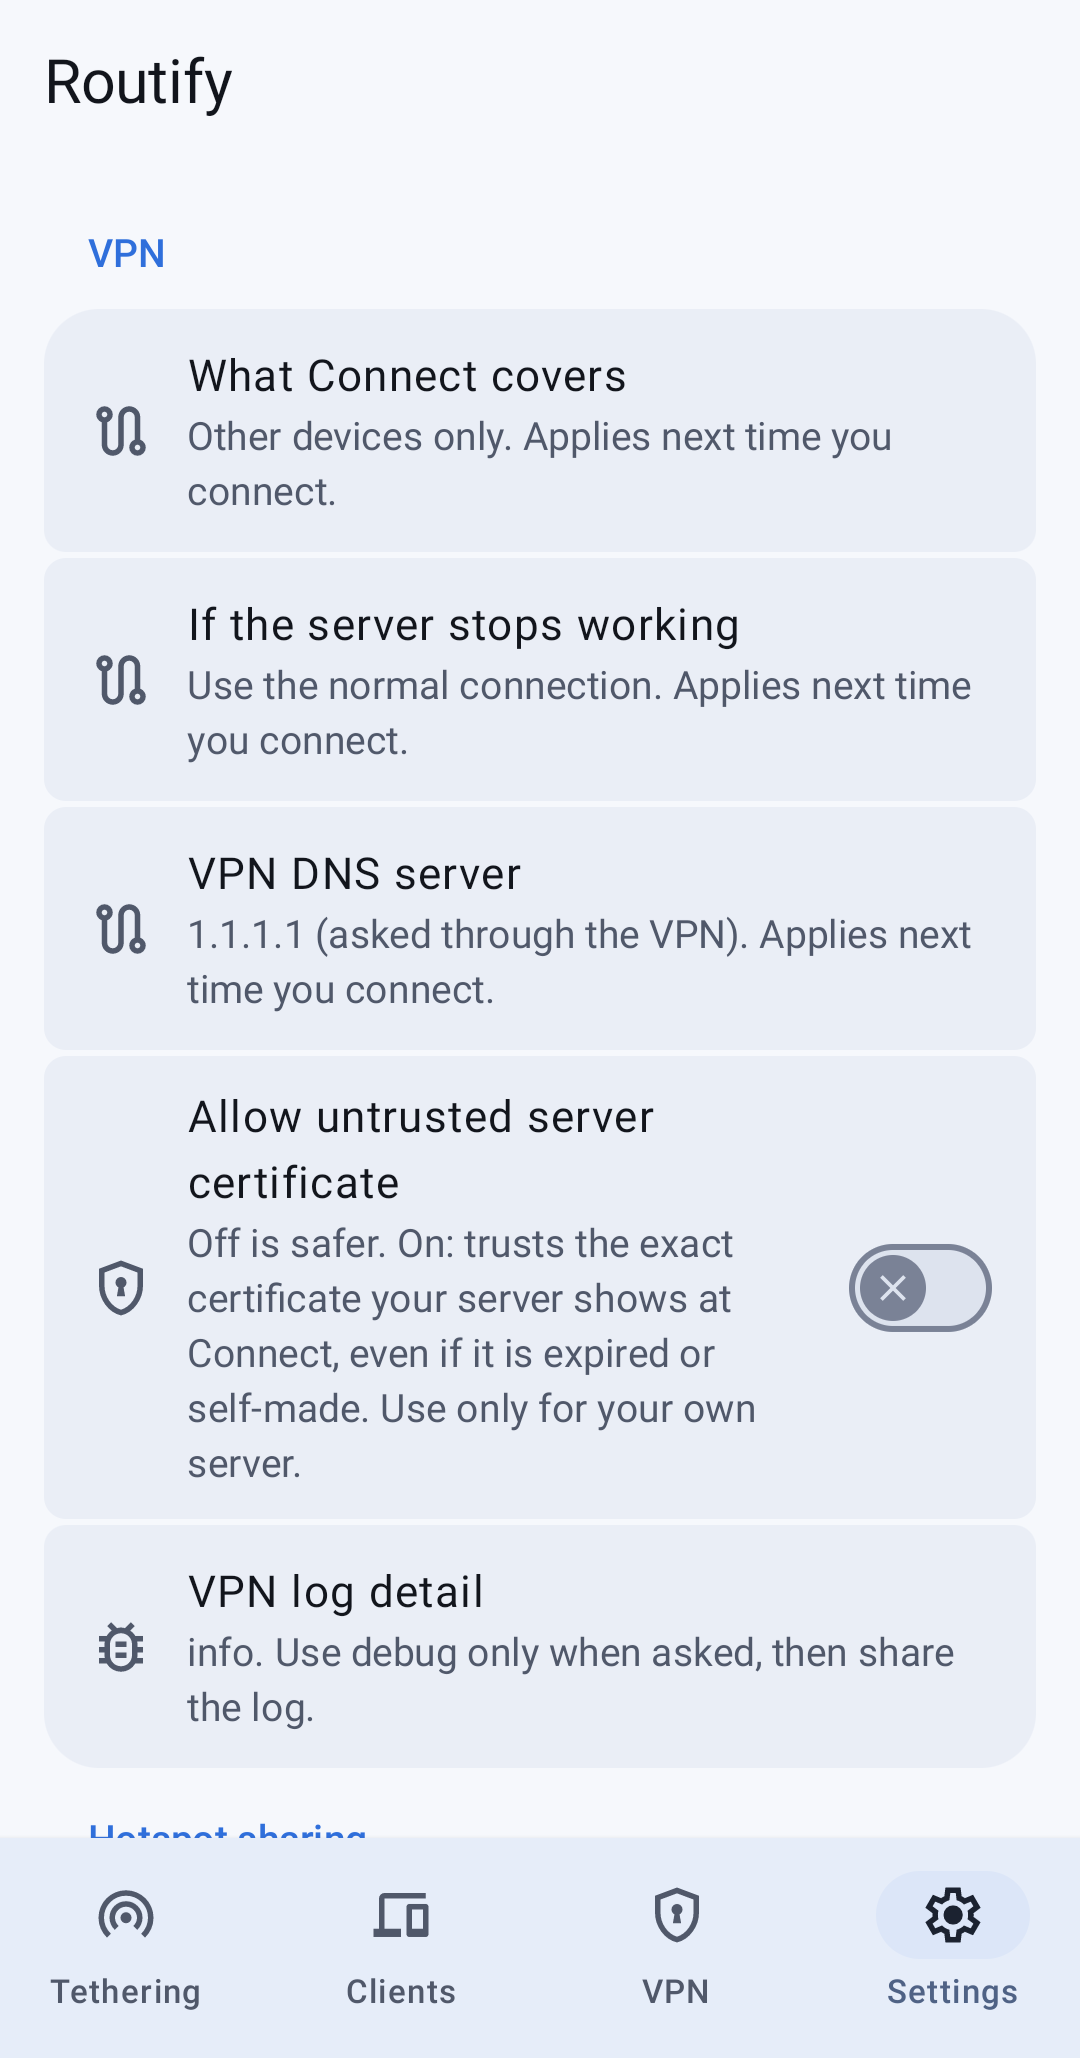
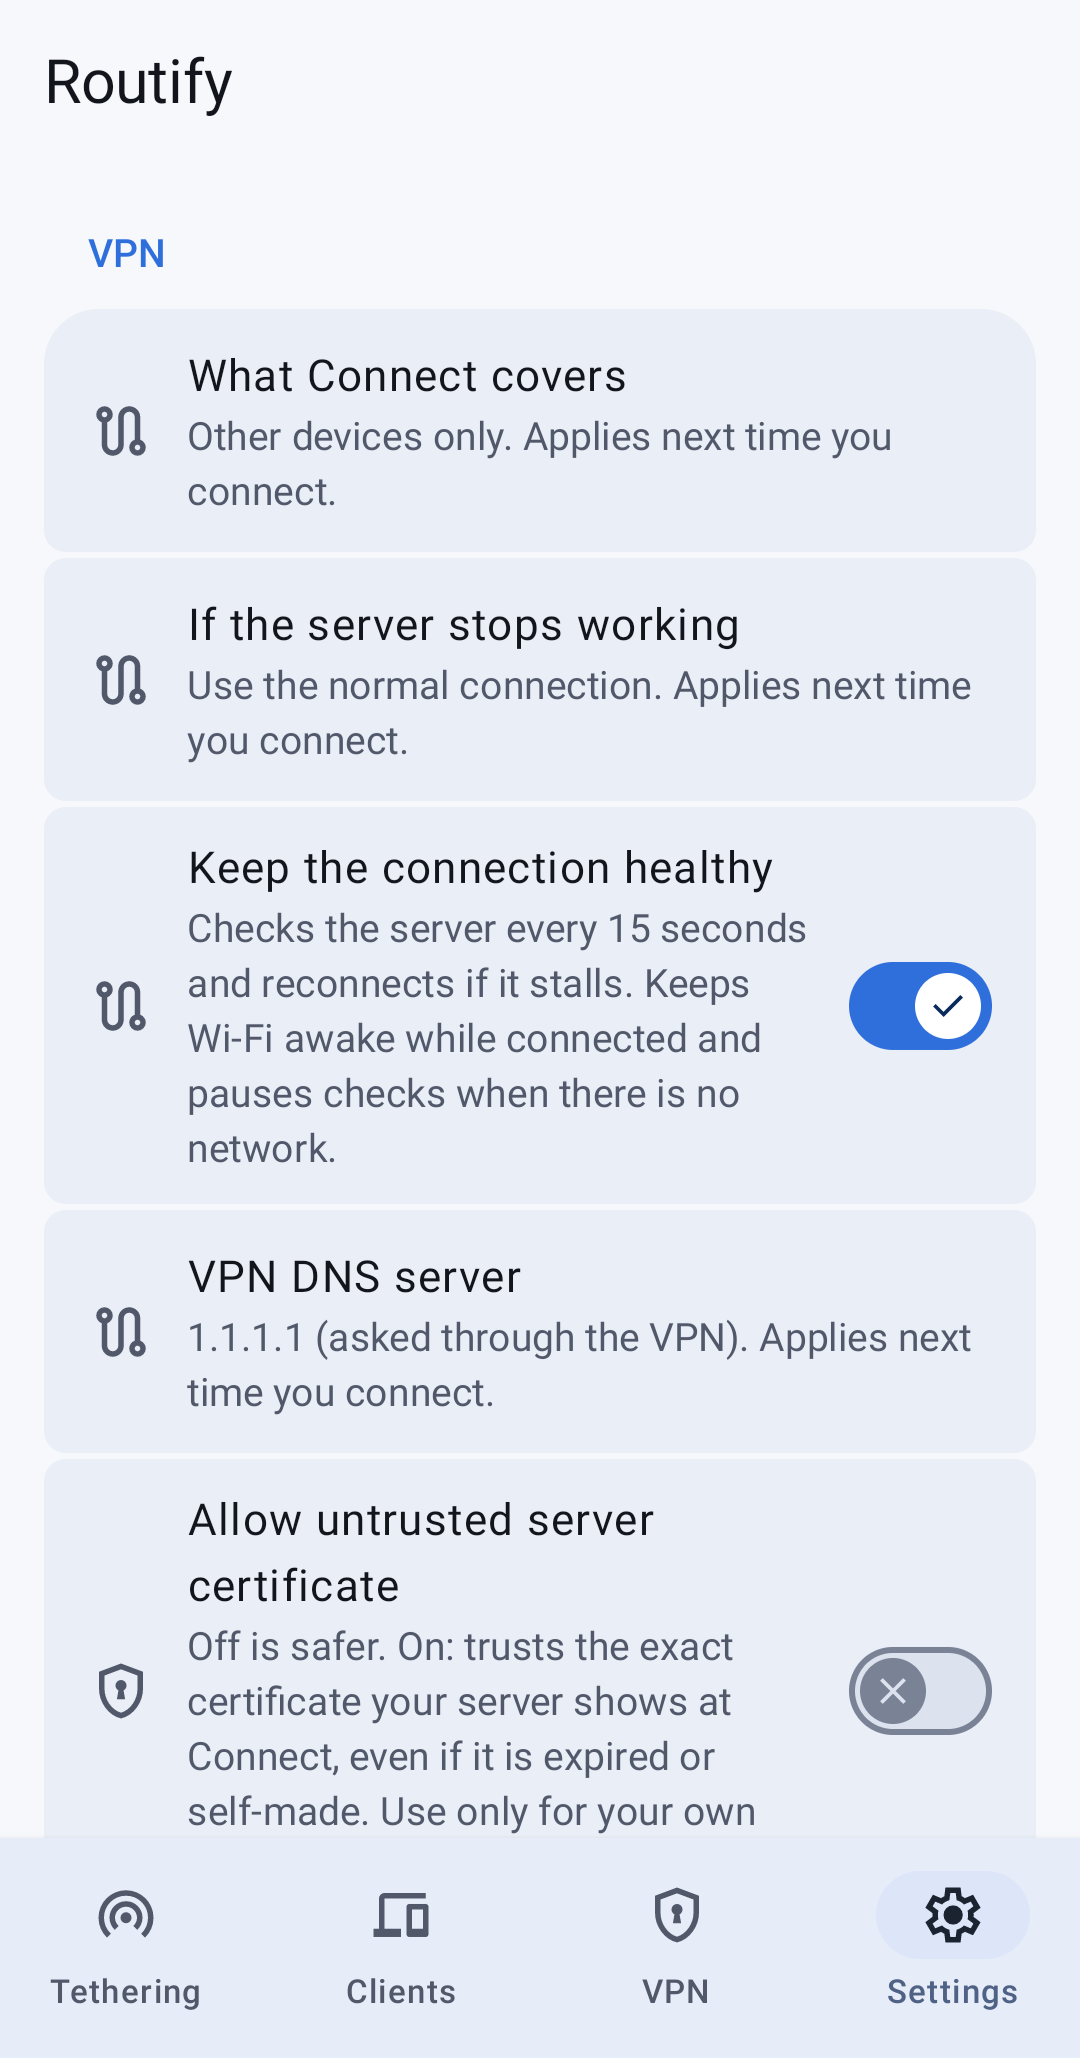
Add Check for updates (v0.3.39)

diff --git a/mobile/src/main/java/be/mygod/vpnhotspot/xray/XrayController.kt b/mobile/src/main/java/be/mygod/vpnhotspot/xray/XrayController.kt
@@ -76,6 +76,39 @@ object XrayController {
         get() = prefs.getBoolean("block_on_fail", false)
         set(v) = prefs.edit().putBoolean("block_on_fail", v).apply()
 
+    /** On (default): the connection is checked every 15 s and restarted when it stalls; Wi-Fi and CPU stay awake while connected. */
+    var keepHealthy: Boolean
+        get() = prefs.getBoolean("keep_healthy", true)
+        set(v) = prefs.edit().putBoolean("keep_healthy", v).apply()
+
+    @Volatile private var lastServer: XrayServer? = null
+    private var wifiLock: android.net.wifi.WifiManager.WifiLock? = null
+    private var cpuLock: android.os.PowerManager.WakeLock? = null
+
+    @Suppress("DEPRECATION")
+    private fun holdLocks() {
+        try {
+            if (wifiLock == null) wifiLock = app.getSystemService(android.net.wifi.WifiManager::class.java)
+                .createWifiLock(android.net.wifi.WifiManager.WIFI_MODE_FULL_HIGH_PERF, "routify:conn").apply { setReferenceCounted(false) }
+            if (cpuLock == null) cpuLock = app.getSystemService(android.os.PowerManager::class.java)
+                .newWakeLock(android.os.PowerManager.PARTIAL_WAKE_LOCK, "routify:conn").apply { setReferenceCounted(false) }
+            wifiLock?.acquire(); cpuLock?.acquire()
+            appendLog("Health: Wi-Fi and CPU locks held while connected")
+        } catch (e: Throwable) { appendLog("Health: locks unavailable (${e.javaClass.simpleName})") }
+    }
+
+    private fun dropLocks() {
+        try { if (wifiLock?.isHeld == true) wifiLock?.release() } catch (_: Throwable) { }
+        try { if (cpuLock?.isHeld == true) cpuLock?.release() } catch (_: Throwable) { }
+    }
+
+    /** True when Android reports any network with internet (Wi-Fi or mobile data). */
+    private fun networkUp(): Boolean = try {
+        val cm = app.getSystemService(android.net.ConnectivityManager::class.java)
+        val c = cm.getNetworkCapabilities(cm.activeNetwork)
+        c?.hasCapability(android.net.NetworkCapabilities.NET_CAPABILITY_INTERNET) == true
+    } catch (_: Throwable) { true }
+
     @Volatile private var waitReason: String = ""
     @Volatile private var lastResolved: XrayServer? = null
 
@@ -371,6 +404,7 @@ object XrayController {
                 proxyProc = pb.start()
                 Thread.sleep(1200)
             }
+            lastServer = server
             val p = proxyProc
             if (p == null || !p.isAlive) {
                 val log = File(dir, "xray.log").takeIf { it.exists() }?.readText()?.takeLast(300) ?: ""
@@ -428,9 +462,13 @@ object XrayController {
         watching = true
         lastProblem = null
         Thread {
+            if (keepHealthy) holdLocks()
             try {
                 var tick = 0
                 var fails = 0
+                var healthFails = 0
+                var paused = false
+                val restartTimes = ArrayDeque<Long>()
                 fun restarts() = try { File(dir, "restarts").takeIf { it.exists() }?.readLines()?.size ?: 0 } catch (_: Throwable) { 0 }
                 var seenRestarts = restarts()
                 while (_running.value) {
@@ -461,6 +499,32 @@ object XrayController {
                             } else if (bad != waitReason) { waitReason = bad; refresh() }
                         }
                     }
+                    if (keepHealthy && tick % 5 == 0 && try { File(dir, "state").readText().trim() } catch (_: Throwable) { "" } == "proxy") {
+                        if (!networkUp()) {
+                            if (!paused) { paused = true; appendLog("Health: no network, checks paused until it is back") }
+                            healthFails = 0
+                        } else {
+                            if (paused) { paused = false; appendLog("Health: network is back, checking again") }
+                            val dead = proxyProc?.isAlive == false
+                            val bad = if (dead) "the engine stopped" else PhoneVpn.serverCheck(SOCKS_PORT)
+                            healthFails = if (bad.isEmpty()) 0 else healthFails + 1
+                            if (healthFails >= (if (dead) 1 else 3)) {
+                                healthFails = 0
+                                val now = android.os.SystemClock.elapsedRealtime()
+                                while (restartTimes.isNotEmpty() && now - restartTimes.first() > 600_000) restartTimes.removeFirst()
+                                val sv = lastServer
+                                if (sv == null || restartTimes.size >= 5) {
+                                    appendLog("Health: still stalled ($bad); stopped retrying after 5 restarts in 10 minutes")
+                                    _message.value = "Connected, but the server does not answer: $bad"
+                                } else {
+                                    restartTimes.addLast(now)
+                                    appendLog("Health: tunnel stalled ($bad), reconnecting (restart ${restartTimes.size})")
+                                    _message.value = "Reconnecting..."
+                                    kotlinx.coroutines.runBlocking { startProxy(sv) }
+                                }
+                            }
+                        }
+                    }
                     val log = try { File(dir, "xray.log").takeIf { it.exists() }?.readText()?.takeLast(6000) ?: "" } catch (_: Throwable) { "" }
                     val problem = diagnose(log)
                     if (problem != null && problem != lastProblem) {
@@ -469,7 +533,7 @@ object XrayController {
                         _message.value = "Connected, but " + problem
                     }
                 }
-            } catch (_: Throwable) { } finally { watching = false }
+            } catch (_: Throwable) { } finally { watching = false; dropLocks() }
         }.apply { isDaemon = true; name = "routify-xray-watch" }.start()
     }
 

diff --git a/mobile/src/main/java/be/mygod/vpnhotspot/RepeaterService.kt b/mobile/src/main/java/be/mygod/vpnhotspot/RepeaterService.kt
@@ -314,6 +314,13 @@ class RepeaterService : Service(), CoroutineScope {
             if (android.os.SystemClock.elapsedRealtime() - began > 60_000) restarts = 0
             restarts++
             if (restarts > 8) throw StartFailure("The Wi-Fi Direct group kept dropping. Turn the Repeater off and on again.")
+            var pausedLogged = false
+            while (app.getSystemService(android.net.wifi.WifiManager::class.java)?.isWifiEnabled == false) {
+                if (!pausedLogged) { pausedLogged = true; be.mygod.vpnhotspot.util.AppLog.add("repeater", "Wi-Fi is off, waiting for it before creating the group again") }
+                delay(2.seconds)
+                restarts = 0
+            }
+            if (pausedLogged) be.mygod.vpnhotspot.util.AppLog.add("repeater", "Wi-Fi is back")
             be.mygod.vpnhotspot.util.AppLog.add("repeater", "Group lost, creating it again (try $restarts)")
             delay((3 * restarts).coerceAtMost(30).seconds)
         }

diff --git a/mobile/src/main/java/be/mygod/vpnhotspot/ui/VpnSettings.kt b/mobile/src/main/java/be/mygod/vpnhotspot/ui/VpnSettings.kt
@@ -155,3 +155,15 @@ fun ErrorLogRow() {
     )
 }
 
+
+@Composable
+fun VpnHealthRow() {
+    var on by remember { mutableStateOf(XrayController.keepHealthy) }
+    PreferenceSwitchRow(
+        icon = R.drawable.ic_route,
+        title = "Keep the connection healthy",
+        summary = "Checks the server every 15 seconds and reconnects if it stalls. Keeps Wi-Fi awake while connected and pauses checks when there is no network.",
+        checked = on,
+        onCheckedChange = { XrayController.keepHealthy = it; on = it },
+    )
+}

diff --git a/mobile/src/main/java/be/mygod/vpnhotspot/ui/SettingsScreen.kt b/mobile/src/main/java/be/mygod/vpnhotspot/ui/SettingsScreen.kt
@@ -163,6 +163,7 @@ fun SettingsScreen(snackbarHostState: SnackbarHostState) {
             PreferenceGroup(title = "VPN") {
 row("routify_vpn_cover") { VpnCoverageRow() }
 row("routify_vpn_fail") { VpnFailRow() }
+        row("routify_vpn_health") { VpnHealthRow() }
 row("routify_vpn_dns") { VpnDnsRow() }
 row("routify_insecure") { InsecureRow() }
 row("routify_vpn_log") { VpnLogRow() }
